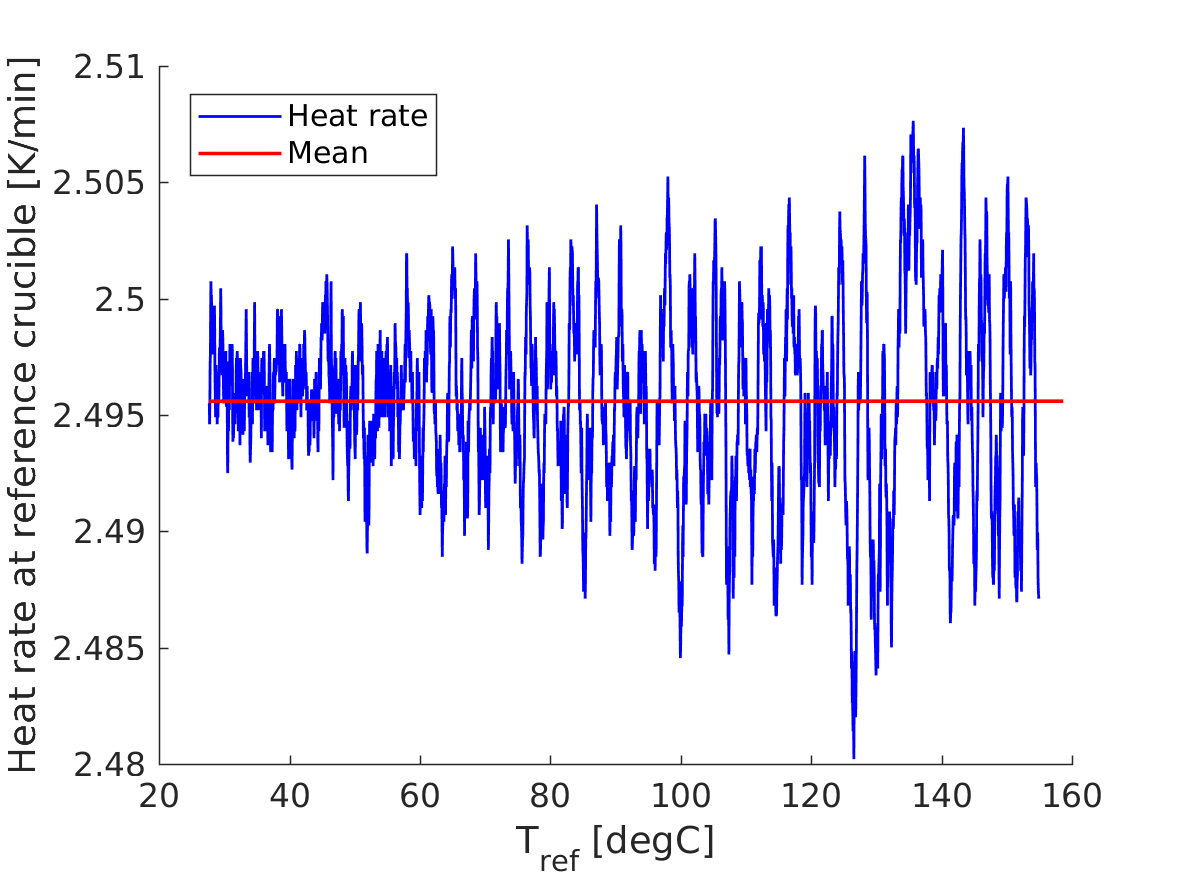
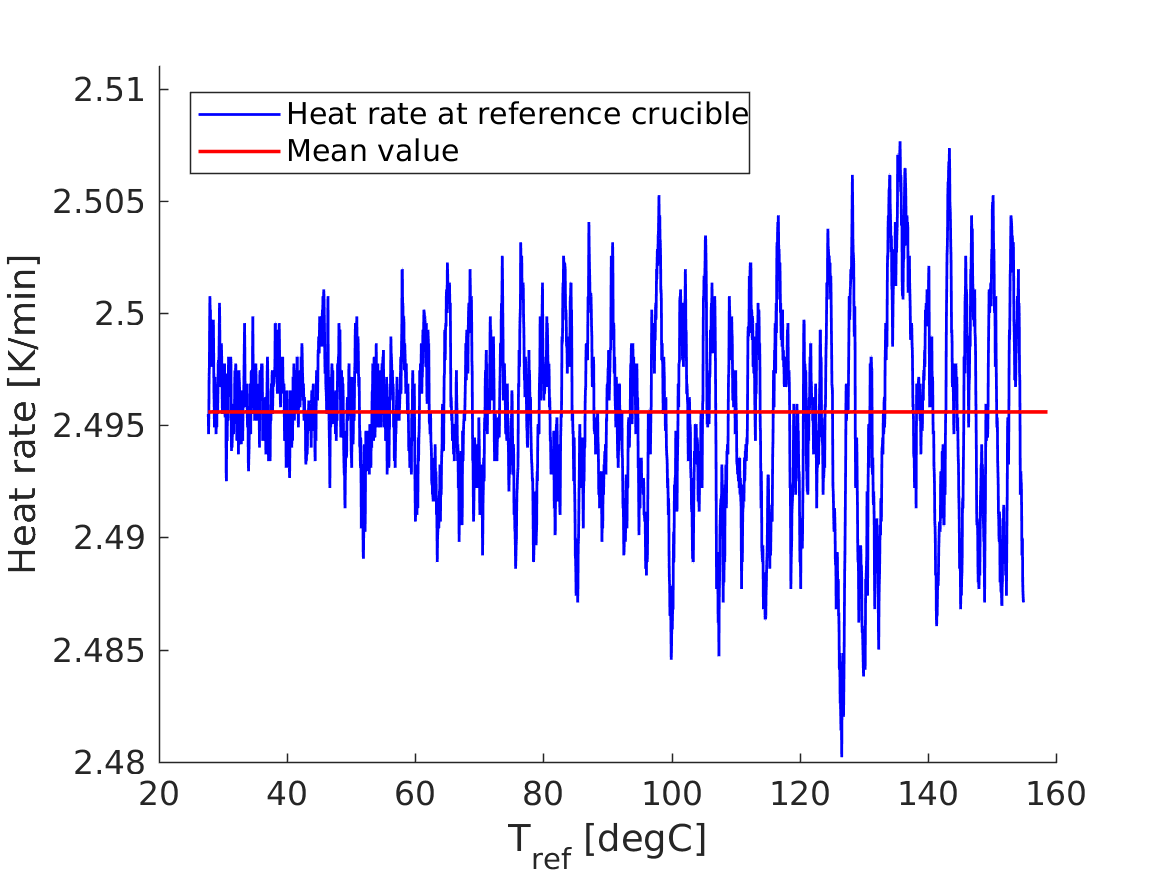
continued thesis a bit, wrote script to gain residuum vector F1 from heat flux plot in existing fit directory

diff --git a/code/testing2.m b/code/testing2.m
@@ -630,7 +630,7 @@ print(fig1, '/home/argo/masterarbeit/simulationen-data/grid_error/mod_n_tr_relEr
 
 legend(ax2, 'show', 'location', 'northeast')
 xlabel('$$\tilde{x}$$, Computation grid', 'Interpreter', 'latex')
-ylabel('$$\chi(\tilde{x}) = \Delta x$$ [mm]', 'Interpreter', 'latex')
+ylabel('$$\frac{\partial \chi}{\partial \tilde{x}}(\tilde{x}) = \Delta x$$ [mm]', 'Interpreter', 'latex')
 set(ax2,'FontSize',12);
 print(fig2, '/home/argo/masterarbeit/simulationen-data/grid_error/mod_n_tr_gridsize_1e-8', '-dpng', '-r200');
 
@@ -641,11 +641,11 @@ print(fig2, '/home/argo/masterarbeit/simulationen-data/grid_error/mod_n_tr_grids
 
 root_dir = '/home/argo/masterarbeit/simulationen-data/grid_error/';
 
-T_ref_file = [root_dir, 'Temp_equidistant_grid_N1=20000_N3=50_L1=40,00_L3=0,10_1e-7.mat'];
+T_ref_file = [root_dir, 'Temp_N1=20000_N3=50_L1=40.00_L3=0.10_relTol=1e-7_new.mat'];
 % T_ref_file = [root_dir, 'Temp_N1=20000_N3=50_L1=40.00_L3=0.10_relTol=1e-8.mat'];
 
 T_ref_data = load(T_ref_file);
-T_ref = T_ref_data.T(:,20000);
+T_ref = T_ref_data.T(:,20050);
 
 T_test_dirs = {'Temp_n_pcm=0,2_n_tr=0,1_n_m=0,01_t=0,999_L1=40_L3=0,1_N1=200_N3=50.mat', ...
                'Temp_n_pcm=0,14286_n_tr=0,1_n_m=0,01_t=0,999_L1=40_L3=0,1_N1=300_N3=50.mat', ...
@@ -663,7 +663,7 @@ fig2 = figure(21); clf; ax2=gca; set(ax2, 'YScale', 'log'); hold on;
 for i=1:length(T_test_dirs)
     
     T_test_data = load([root_dir, T_test_dirs{i}]);
-    T_test = T_test_data.T(:,T_test_data.N1);
+    T_test = T_test_data.T(:,T_test_data.N1 + T_test_data.N3);
     
     relErr = abs(1 - T_test ./ T_ref);
     
@@ -680,14 +680,14 @@ end
 
 legend(ax1, 'show', 'location', 'southwest')
 xlabel(ax1, 'T_{ref} [degC]')
-ylabel(ax1, 'Absolute relative error')
+ylabel(ax1, '| Relative error |')
 set(ax1,'FontSize',12);
 % print(fig1, '/home/argo/masterarbeit/simulationen-data/grid_error/mod_N1_relErr_1e-8', '-dpng', '-r200');
 
 
 legend(ax2, 'show', 'location', 'northeast')
 xlabel('$$\tilde{x}$$, Computation grid', 'Interpreter', 'latex')
-ylabel('$$\chi(\tilde{x}) = \Delta x$$ [mm]', 'Interpreter', 'latex')
+ylabel('$$\frac{\partial \chi}{\partial \tilde{x}}(\tilde{x}) = \Delta x$$ [mm]', 'Interpreter', 'latex')
 set(ax2,'FontSize',12);
 % print(fig2, '/home/argo/masterarbeit/simulationen-data/grid_error/mod_N1_gridsize_1e-8', '-dpng', '-r200');
 
@@ -701,7 +701,7 @@ set(ax2,'FontSize',12);
 
 root_dir = '/home/argo/masterarbeit/simulationen-data/grid_error/';
 
-T_ref_file = [root_dir, 'Temp_equidistant_grid_N1=20000_N3=50_L1=40,00_L3=0,10_1e-7.mat'];
+T_ref_file = [root_dir, 'Temp_N1=20000_N3=50_L1=40.00_L3=0.10_relTol=1e-7_new.mat'];
 % T_ref_file = [root_dir, 'Temp_N1=20000_N3=50_L1=40.00_L3=0.10_relTol=1e-8.mat'];
 
 T_ref_data = load(T_ref_file);
@@ -711,7 +711,9 @@ T_test_dirs = {'Temp_n_pcm=0,2_n_tr=0,1_n_m=0,01_t=0,999_L1=40_L3=0,1_N1=160_N3=
                'Temp_n_pcm=0,2_n_tr=0,1_n_m=0,01_t=0,999_L1=40_L3=0,1_N1=240_N3=60.mat', ...
                'Temp_n_pcm=0,2_n_tr=0,1_n_m=0,01_t=0,999_L1=40_L3=0,1_N1=400_N3=100.mat', ...
                'Temp_n_pcm=0,2_n_tr=0,1_n_m=0,01_t=0,999_L1=40_L3=0,1_N1=800_N3=200.mat', ...
-               'Temp_n_pcm=0,2_n_tr=0,1_n_m=0,01_t=0,999_L1=40_L3=0,1_N1=1600_N3=400.mat'};
+               'Temp_n_pcm=0,2_n_tr=0,1_n_m=0,01_t=0,999_L1=40_L3=0,1_N1=1600_N3=400.mat', ...
+               'Temp_n_pcm=0,2_n_tr=0,1_n_m=0,01_t=0,999_L1=40_L3=0,1_N1=4000_N3=1000.mat', ...
+               'Temp_n_pcm=0,2_n_tr=0,1_n_m=0,01_t=0,999_L1=40_L3=0,1_N1=8000_N3=2000.mat'};
 
 fig1 = figure(20); clf; ax1=gca; hold on;
 fig2 = figure(21); clf; ax2=gca; hold on;
@@ -742,7 +744,7 @@ set(ax1,'FontSize',12);
 
 legend(ax2, 'show', 'location', 'northeast')
 xlabel('$$\tilde{x}$$, Computation grid', 'Interpreter', 'latex')
-ylabel('$$\chi(\tilde{x}) = \Delta x$$ [mm]', 'Interpreter', 'latex')
+ylabel('$$\frac{\partial \chi}{\partial \tilde{x}}(\tilde{x}) = \Delta x$$ [mm]', 'Interpreter', 'latex')
 set(ax2,'FontSize',12);
 % print(fig2, '/home/argo/masterarbeit/simulationen-data/grid_error/mod_N_gridsize_1e-8', '-dpng', '-r200');
 
@@ -762,6 +764,7 @@ T_ref_dsc = dsc.data(index_T_dsc(1):index_T_dsc(2),1);
 root_dir = '/home/argo/masterarbeit/simulationen-data/grid_error/';
 
 T_ref_file7 = [root_dir, 'Temp_equidistant_grid_N1=20000_N3=50_L1=40,00_L3=0,10_1e-7.mat'];  % 1e-7
+% T_ref_file7 = [root_dir, 'Temp_N1=20000_N3=50_L1=40.00_L3=0.10_relTol=1e-7_new.mat'];
 T_ref_data7 = load(T_ref_file7);
 T_ref7 = T_ref_data7.T(:,20000);
 
@@ -771,7 +774,7 @@ T_ref8 = T_ref_data8.T(:,20000);
 
 relErr = abs(1 - T_ref7 ./ T_ref8);
 
-fig1 = figure(26); clf; ax1 = gca; set(ax1, 'YScale', 'log'); hold on
+fig1 = figure(23); clf; ax1 = gca; set(ax1, 'YScale', 'log'); hold on
 
 plot(ax1, T_ref_dsc, relErr, 'Linewidth', 1.3);
 xlabel(ax1, 'T_{ref} [degC]')
@@ -806,15 +809,16 @@ heat_rate_meas = gradient(dsc.data(idx_start:idx_end,1), dsc.data(idx_start:idx_
 
 fig = figure(50); clf; hold on
 plot(dsc.data(idx_start:idx_end,1), heat_rate_meas, 'Color', 'blue', ...
-    'Linewidth', 1., 'DisplayName', 'Heat rate');
+    'Linewidth', 1., 'DisplayName', 'Heat rate at reference crucible');
 plot([dsc.data(idx_start,1), dsc.data(end,1)], mean(heat_rate_meas)*ones(1,2), ...
-    'Color', 'red', 'Linewidth', 1.3, 'DisplayName', 'Mean');
+    'Color', 'red', 'Linewidth', 1.3, 'DisplayName', 'Mean value');
 
 % plot(dsc.data(idx_start:idx_end,2), dsc.data(idx_start:idx_end,3))
 % plot(dsc.data(idx_start:idx_end,2), dsc.data(idx_start:idx_end,1))
 
+ylim([2.48 2.511])
 xlabel('T_{ref} [degC]');
-ylabel('Heat rate at reference crucible [K/min]')
+ylabel('Heat rate [K/min]')
 legend('show', 'location', 'northwest')
 set(gca,'FontSize',12);
 
@@ -828,7 +832,7 @@ var(heat_rate_meas)
 
 %% Compute covariance matrix C in solution point
 
-fit_dir = '/home/argo/masterarbeit/fits_data/2017-12-03_19:49:07_407_L1=40_L3=0.1_N1=500_N3=50/';
+fit_dir = '/home/argo/masterarbeit/fits_data/2017-11-27_22:04:37_407_L1=40_L3=0.1_N1=500_N3=200/';
 
 file_list = dir(fit_dir);
 
@@ -839,13 +843,15 @@ nameSubDirs(ismember(nameSubDirs,{'.','..'})) = [];
 for j=1:length(nameSubDirs)
     
     fit_data = load([fit_dir, nameSubDirs{j}, '/fit_data.mat']);
+    p_optim = fit_data.optimization.p_optim_end;
     
     J1 = fit_data.optimization.dqdp_end;
     F1 = fit_data.optimization.residuum_end;
     
     confidence_lvl = 0.05;
     [theta, C] = compute_confidence_interval(F1,J1,confidence_lvl);
-    
+    p_optim_variance = diag(C);
+    np = length(theta); 
     
     % Output
     fprintf('Heat rate: %1.2f\n', fit_data.measurement.dsc_data.Tinfo.Tstep);
@@ -892,4 +898,32 @@ b_sq = q_res.' * q_res / (length(q_res) - sum(fit_data.optimization.p_optim_esti
 
 fprintf('b    = %1.2e\n', b_sq);
 
+
+%% Residuum aus heat flux plot nachtraeglich zu fit_data.mat hinzufuegen
+
+
+fit_dir = '/home/argo/masterarbeit/fits_data/2017-12-03_19:49:07_407_L1=40_L3=0.1_N1=500_N3=50/';
+
+file_list = dir(fit_dir);
+
+isub = [file_list(:).isdir]; %# returns logical vector
+nameSubDirs = {file_list(isub).name}';
+nameSubDirs(ismember(nameSubDirs,{'.','..'})) = [];
+
+for j=1:length(nameSubDirs)
+    
+    
+    open([fit_dir, nameSubDirs{j}, '/q_pcm_in(T_ref).fig']);
+    children = get(gca, 'Children');
+    q_res = (children(1).YData)';
+    close;
+    
+    fit_data = load([fit_dir, nameSubDirs{j}, '/fit_data.mat']);
+    fit_data.optimization.residuum_end = q_res;
+    
+    path_fit_data = [fit_dir, nameSubDirs{j}, '/fit_data.mat'];
+    save(path_fit_data, '-struct', 'fit_data');
+
+    
+end
 

diff --git a/thesis/thesis.tex b/thesis/thesis.tex
@@ -2067,17 +2067,18 @@ In the first set of tests we modified the total number of discretization points 
 \end{figure}
 
 
-\subsection{Parameter estimation using linear combination of Gaussians parametrization}
+\subsection{Parameter estimation using parametrization of linear combination of Gaussians}
 
 \subsection{Parameter estimation using Fraser-Suzuki parametrization}
 \label{sec:param_estimation_fs}
 
 \subsection{Parameter estimation with modified heat rate from measurement data}
-So far the nominal heat rate of the appropriate measurement scheme was used. 
+So far just the nominal heat rate of the appropriate measurement scheme was used. 
 Fig. \ref{fig:heat_rate_measurement} shows the measurement data of the heat rate at the reference crucible $\frac{\partial T_{ref}(t)}{\partial t}(T_{ref})$ exemplary for a nominal heat rate $\beta = 2.5 \frac{K}{min}$. 
 As one can see there are fluctuations due to the regulation which tries to keep the heat rate at the nominal value. 
 Computing the mean value gives a lower measured heat rate than the nominal value (red line in Fig. \ref{fig:heat_rate_measurement}). 
 This is the case for all used measurements as one can see in table \ref{tab:mod_heat_rate}. 
+Since the reference side' material properties are constant the heat rate at the crucible and the furnace are comparable.
 Although the observed difference is quite small, with increasing time the shift in temperature will accumulate more and more.
 Further this could be a reason for the observed shift in the obtained $c_p(T)$ in the previous sections.
 This is why we perform now the parameter estimation again with the modified heat rate $<\beta_{meas}>$ stated in table \ref{tab:mod_heat_rate}.
@@ -2086,7 +2087,7 @@ This is why we perform now the parameter estimation again with the modified heat
 \begin{figure}[H]
 	\centering
 	\includegraphics[width=0.75\textwidth]{/home/argo/masterarbeit/thesis/images/heat_rate_ref_crucible.png}
-	\caption{}
+	\caption{Measured heat rate at the reference crucible $\frac{\partial T_{ref}(t)}{\partial t}(T_{ref})$ and the corresponding mean value for a nominal heat rate of $2.5 \frac{K}{min}$.}
 	\label{fig:heat_rate_measurement}
 \end{figure}
 
@@ -2102,7 +2103,7 @@ This is why we perform now the parameter estimation again with the modified heat
 		$0.6$ & $0.5989$ & $0.00078$ \\
 		$0.3$ & $0.2994$ & $0.00046$ \\ \hline
 	\end{tabular}
-	\caption{}
+	\caption{Heat rates' mean value $<\beta_{meas}>$ obtained as in fig. \ref{fig:heat_rate_measurement} and corresponding standard deviation $\sigma_{\beta_{meas}}$ for all measurements.}
 	\label{tab:mod_heat_rate}
 \end{table}
 
